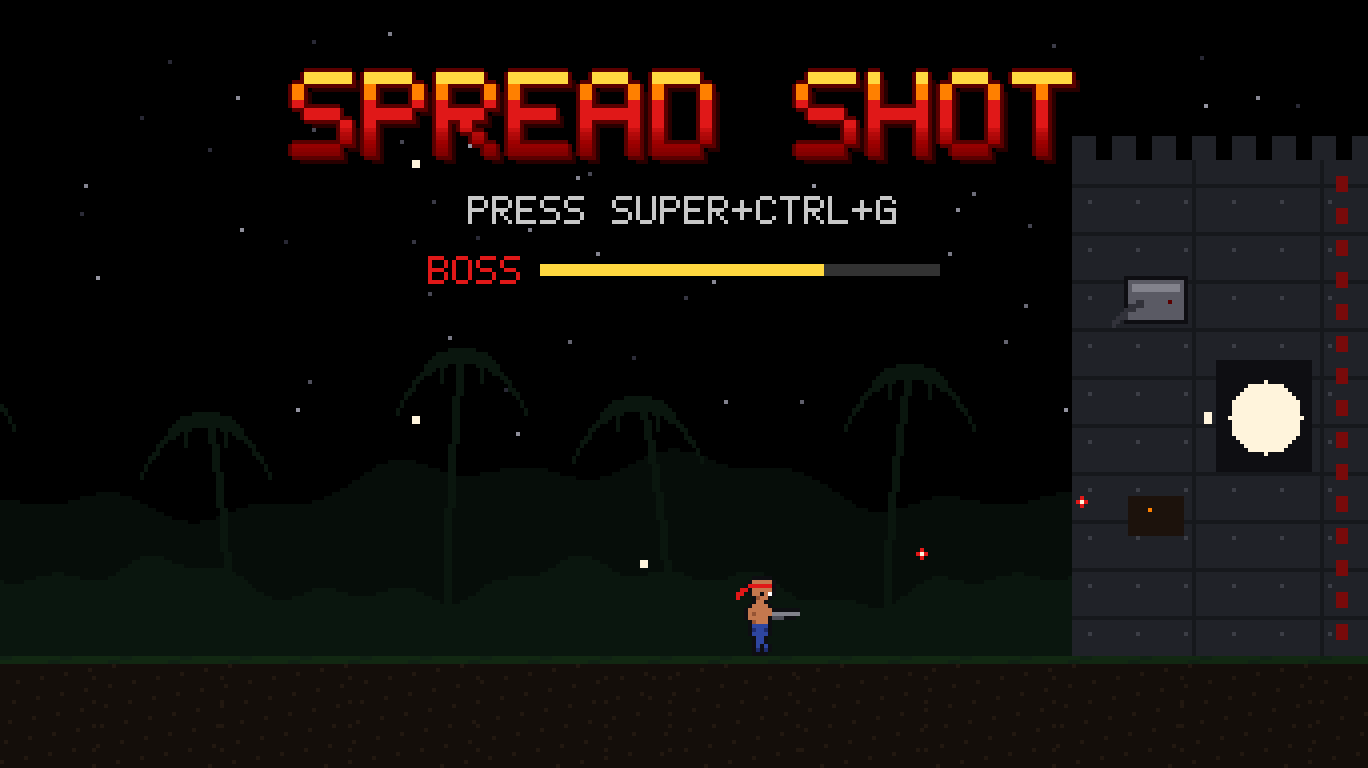
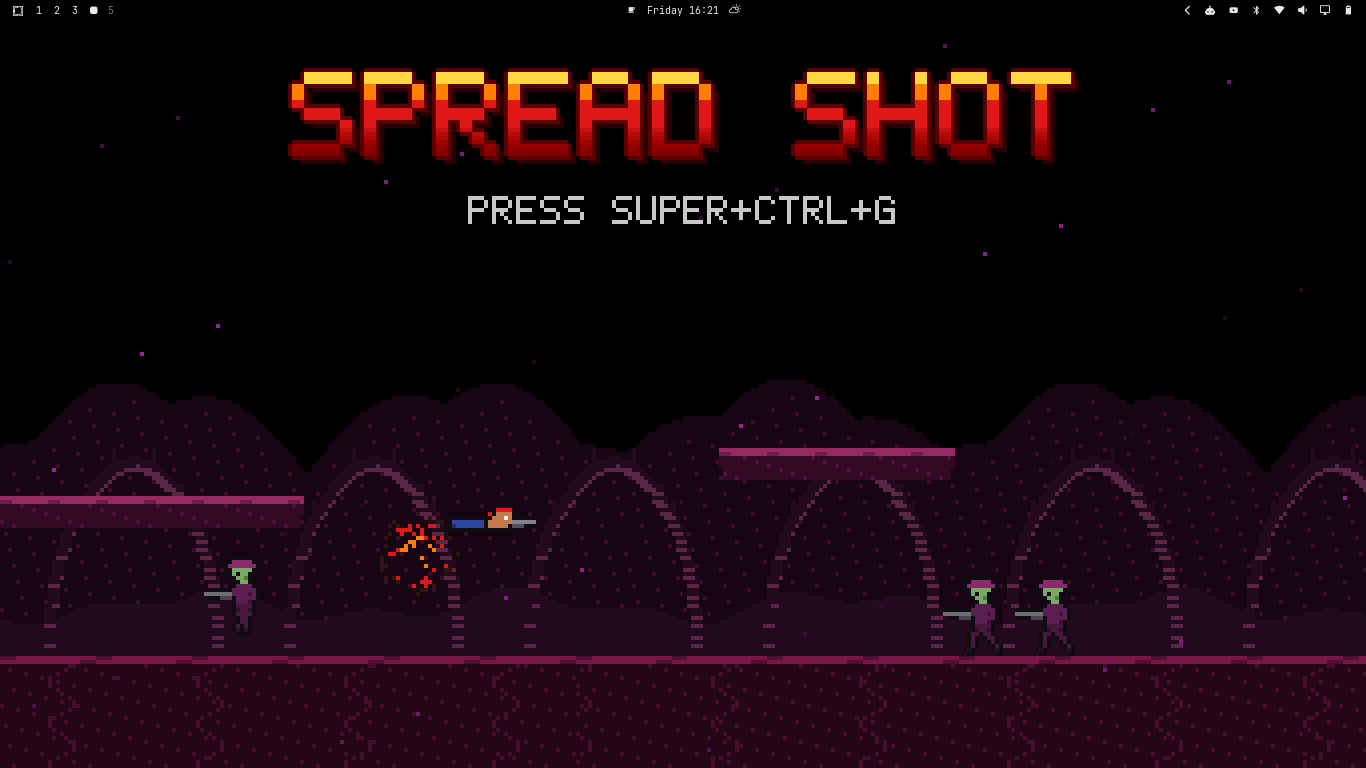
Follow Omarchy's background switcher
Picking one of the theme's stage stills with Super+Ctrl+Space fades the
demo over to that stage, and the game starts on the picked stage after a
reboot. An inotify watch on the background symlink keeps it free while
idle; a human's run is never interrupted.

diff --git a/game/src/main.c b/game/src/main.c
@@ -17,6 +17,7 @@
 #include <stdlib.h>
 #include <string.h>
 #include <sys/mman.h>
+#include <sys/inotify.h>
 #include <sys/signalfd.h>
 #include <time.h>
 #include <unistd.h>
@@ -327,6 +328,61 @@ static void reg_remove(void *d, struct wl_registry *reg, uint32_t name) { (void)
 
 static const struct wl_registry_listener registry_listener = {.global = reg_global, .global_remove = reg_remove};
 
+// ---------------------------------------------------------------------------
+// Omarchy background switcher: picking one of the theme's stage stills
+// (Super+Ctrl+Space) moves the demo to that stage.
+// ---------------------------------------------------------------------------
+
+static const char *STAGE_BACKGROUNDS[NUM_STAGES] = {"1-jungle", "2-snowfield", "3-enemy-base", "4-alien-hive"};
+
+static bool background_dir(char *buf, size_t n) {
+    const char *home = getenv("HOME");
+    if (!home) return false;
+    snprintf(buf, n, "%s/.local/state/omarchy/current", home);
+    return true;
+}
+
+// Returns the stage whose still Omarchy currently shows, or -1 for any other background.
+static int background_stage(void) {
+    char dir[512], link[600], target[1024];
+    if (!background_dir(dir, sizeof dir)) return -1;
+    snprintf(link, sizeof link, "%s/background", dir);
+    ssize_t len = readlink(link, target, sizeof target - 1);
+    if (len <= 0) return -1;
+    target[len] = '\0';
+    const char *base = strrchr(target, '/') ? strrchr(target, '/') + 1 : target;
+    for (int i = 0; i < NUM_STAGES; i++) {
+        size_t sl = strlen(STAGE_BACKGROUNDS[i]);
+        if (!strncmp(base, STAGE_BACKGROUNDS[i], sl) && base[sl] == '.') return i;
+    }
+    return -1;
+}
+
+// Watches the directory holding the `background` symlink; -1 if unavailable.
+static int watch_background(void) {
+    char dir[512];
+    if (!background_dir(dir, sizeof dir)) return -1;
+    int fd = inotify_init1(IN_NONBLOCK | IN_CLOEXEC);
+    if (fd >= 0 && inotify_add_watch(fd, dir, IN_CREATE | IN_MOVED_TO) < 0) {
+        close(fd);
+        return -1;
+    }
+    return fd;
+}
+
+static void background_changed(int fd) {
+    char events[4096] __attribute__((aligned(__alignof__(struct inotify_event))));
+    bool relevant = false;
+    ssize_t len;
+    while ((len = read(fd, events, sizeof events)) > 0)
+        for (char *p = events; p < events + len;) {
+            struct inotify_event *ev = (struct inotify_event *)p;
+            if (ev->len && !strcmp(ev->name, "background")) relevant = true;
+            p += sizeof *ev + ev->len;
+        }
+    if (relevant) game_select_stage(background_stage());
+}
+
 static int run_wayland(void) {
     st.display = wl_display_connect(NULL);
     if (!st.display) {
@@ -366,9 +422,10 @@ static int run_wayland(void) {
     sigprocmask(SIG_BLOCK, &mask, NULL);
     int sfd = signalfd(-1, &mask, SFD_CLOEXEC | SFD_NONBLOCK);
 
-    struct pollfd fds[2] = {
+    struct pollfd fds[3] = {
         {.fd = wl_display_get_fd(st.display), .events = POLLIN},
         {.fd = sfd, .events = POLLIN},
+        {.fd = watch_background(), .events = POLLIN}, // poll() skips a negative fd
     };
 
     while (st.running) {
@@ -377,7 +434,7 @@ static int run_wayland(void) {
             wl_display_cancel_read(st.display);
             break;
         }
-        if (poll(fds, 2, -1) < 0) {
+        if (poll(fds, 3, -1) < 0) {
             wl_display_cancel_read(st.display);
             if (errno == EINTR) continue;
             break;
@@ -398,8 +455,10 @@ static int run_wayland(void) {
             }
             wl_display_flush(st.display);
         }
+        if (fds[2].revents & POLLIN) background_changed(fds[2].fd);
     }
 
+    if (fds[2].fd >= 0) close(fds[2].fd);
     game_save_hiscore();
     destroy_buffers();
     free(st.xmap);
@@ -539,6 +598,7 @@ int main(int argc, char **argv) {
     rng_seed(headless ? 1 : (uint32_t)time(NULL));
     game_init();
     if (start_stage || at_boss) game_preview(start_stage, at_boss);
+    else if (!headless && background_stage() > 0) game_preview(background_stage(), false); // resume the picked stage
 
     if (sim_ticks >= 0) return simulate(sim_ticks, idle_player);
     if (record_frames >= 0) return record(snap_ticks, record_frames, scale, hud);

diff --git a/game/src/game.c b/game/src/game.c
@@ -94,6 +94,7 @@ static float scroll, stage_dist, world_speed = WORLD_SPEED;
 static long score, hi_score, run_start_hi, next_extra = EXTRA_LIFE_EVERY, ending_bonus;
 static int lives = START_LIVES, loop_count;
 static int stage_state = ST_PLAY, state_timer, fade_in, title_timer, warning_timer, game_over_timer;
+static int pending_stage = -1; // set by game_select_stage; otherwise stages advance in order
 static int plat_timer, grunt_timer, sniper_timer, capsule_timer;
 static int ai_target_x = 80, ai_retarget, ai_jump_hold;
 static bool exit_requested;
@@ -739,8 +740,13 @@ void game_step(void) {
     if ((stage_state == ST_CLEAR || stage_state == ST_ENDING) && --state_timer <= 0)
         stage_state = ST_FADE_OUT, state_timer = 30;
     if (stage_state == ST_FADE_OUT && --state_timer <= 0) {
-        if (stage == NUM_STAGES - 1) loop_count++;
-        load_stage((stage + 1) % NUM_STAGES);
+        int next = pending_stage;
+        if (next < 0) {
+            if (stage == NUM_STAGES - 1) loop_count++;
+            next = (stage + 1) % NUM_STAGES;
+        }
+        pending_stage = -1;
+        load_stage(next);
         fade_in = 30;
     }
     if (fade_in > 0) fade_in--;
@@ -1134,6 +1140,14 @@ bool game_exit_requested(void) {
     bool r = exit_requested;
     exit_requested = false;
     return r;
+}
+
+void game_select_stage(int n) {
+    if (game_mode || n < 0 || n >= NUM_STAGES) return; // never interrupt a human's run
+    if (n == stage && stage_state != ST_FADE_OUT && pending_stage < 0) return;
+    LOG("stage %d selected\n", n + 1);
+    pending_stage = n;
+    if (stage_state != ST_FADE_OUT) stage_state = ST_FADE_OUT, state_timer = 30;
 }
 
 void game_preview(int n, bool at_boss) {

diff --git a/game/src/game.h b/game/src/game.h
@@ -23,5 +23,6 @@ void game_end_run(void);   // back to the AI demo
 bool game_exit_requested(void); // true once after a game over finishes
 
 void game_preview(int stage, bool boss); // jump to a stage (0-based), optionally at its boss
+void game_select_stage(int stage);       // demo only: fade over to a stage (0-based)
 bool game_player_settled(void);           // player alive, standing, not blinking (for snapshots)
 void game_save_hiscore(void);

diff --git a/README.md b/README.md
@@ -33,6 +33,8 @@ Then press <kbd>Super</kbd>+<kbd>Ctrl</kbd>+<kbd>G</kbd> to play. Details below.
 - Four stages, each ending in a boss: a defense wall, a tank, a shielded reactor and an alien heart
 - Shoot the flying capsule for the spread gun; 3 lives, an extra one every 20,000 points
 - Beat all four for the ending, then loop 2 begins with tougher enemies. Your high score is saved
+- Pick a stage with Omarchy's background switcher (<kbd>Super</kbd>+<kbd>Ctrl</kbd>+<kbd>Space</kbd>):
+  choosing a stage's still moves the game to that stage, and it starts there after a reboot
 - About 7 MB of RAM; drawn on the CPU (no GPU), and it stops drawing entirely while windows cover it
 
 ## Install
